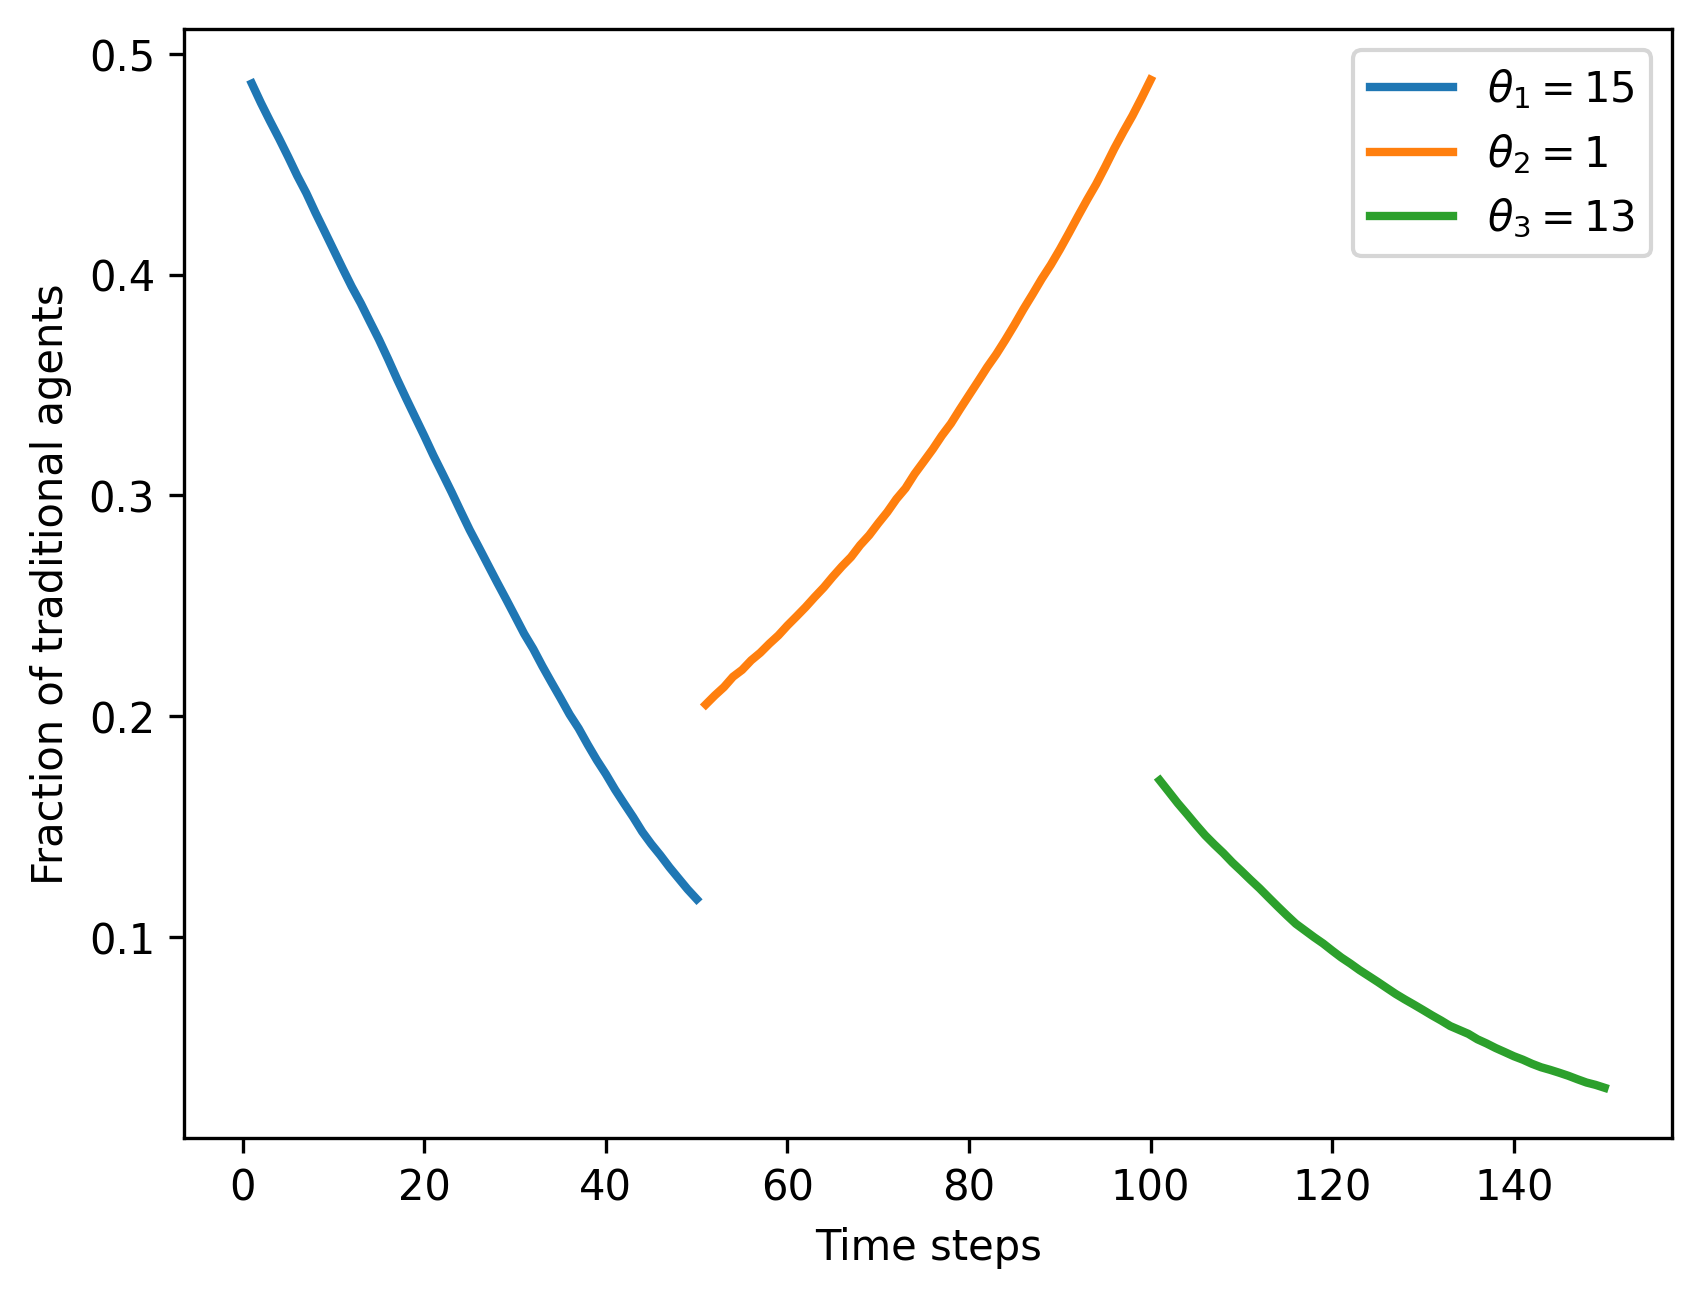
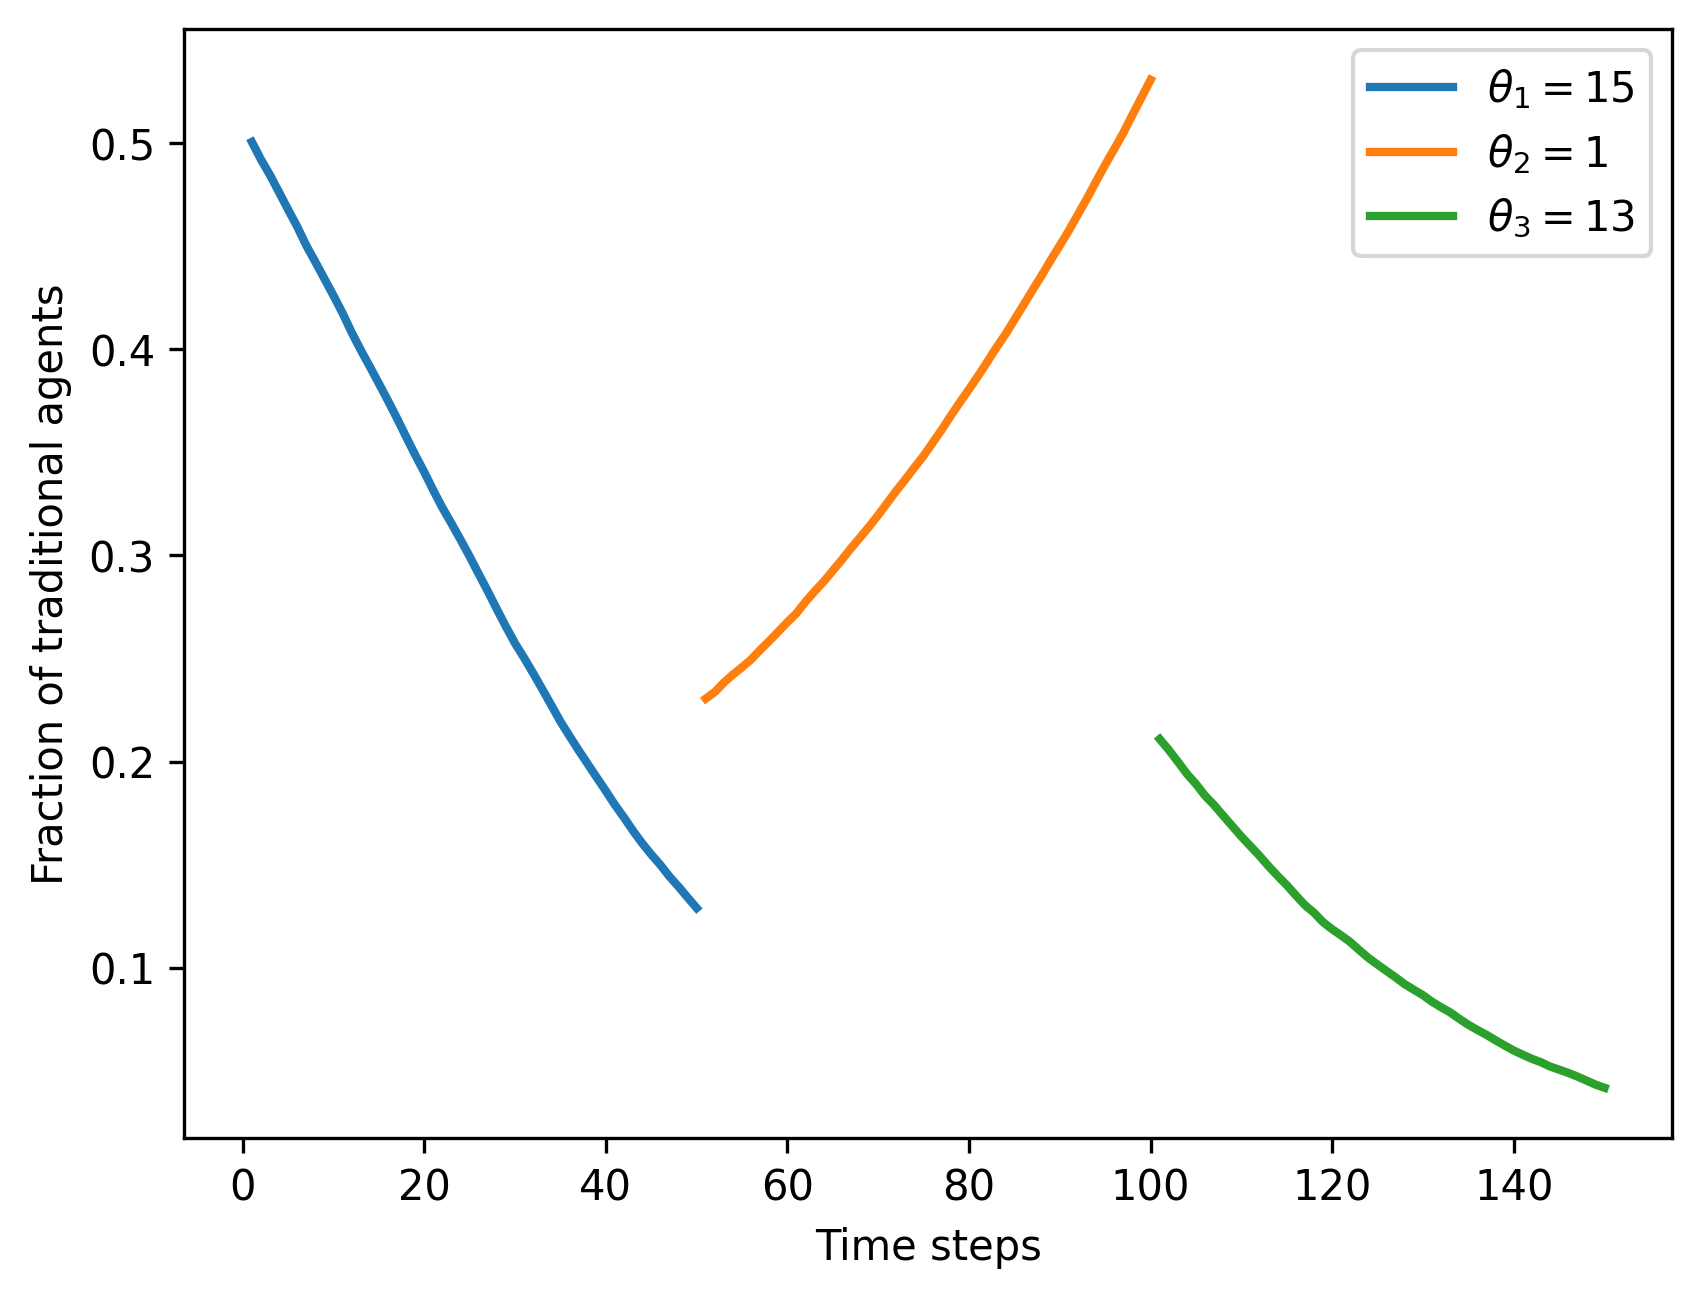
feat: fixed seed.

diff --git a/src/simulation.py b/src/simulation.py
@@ -1,4 +1,3 @@
-import random
 import os
 import logging
 import pickle
@@ -8,8 +7,10 @@ import numpy as np
 from .agent import Agent
 from .game import Game
 from .utils import get_fname
+
+
 class Simulation:
-    def __init__(self, N, f_cultural, theta_list, beta, max_steps, ensemble_size, update_fraction):
+    def __init__(self, N, f_cultural, theta_list, beta, max_steps, ensemble_size, update_fraction, seed=None):
         self.N = N
         self.f_cultural = f_cultural
         self.theta_list = theta_list
@@ -17,14 +18,16 @@ class Simulation:
         self.max_steps = max_steps
         self.ensemble_size = ensemble_size
         self.update_fraction = update_fraction
-        self.population = [Agent(random.random() < f_cultural) for _ in range(N)]
+        self.seed = seed
+        self.rng = np.random.default_rng(seed)
+        self.population = [Agent(self.rng.random() < f_cultural) for _ in range(N)]
         self.equilibria = {}  # theta: averaged fractions
         logging.info(f"Initialized simulation with N={N}, f_cultural={f_cultural}, theta_list={theta_list}, beta={beta}, max_steps={max_steps}, ensemble_size={ensemble_size}")
 
     def initialize_for_theta(self, theta):
         if not self.equilibria:
             for agent in self.population:
-                agent.strategy = random.choice(['T', 'I'])
+                agent.strategy = self.rng.choice(['T', 'I'])
             logging.info(f"Initialized strategies randomly for first theta {theta}")
         else:
             prev_thetas = list(self.equilibria.keys())
@@ -32,9 +35,9 @@ class Simulation:
             frac_dict = self.equilibria[closest_theta]
             for agent in self.population:
                 if agent.cultural_sway:
-                    agent.strategy = 'T' if random.random() < frac_dict['T'] else 'I'
+                    agent.strategy = 'T' if self.rng.random() < frac_dict['T'] else 'I'
                 else:
-                    agent.strategy = random.choice(['T', 'I'])
+                    agent.strategy = self.rng.choice(['T', 'I'])
             logging.info(f"Initialized strategies for theta {theta} based on closest previous theta {closest_theta} with T fraction {frac_dict['T']}")
 
     def average_fractions(self, frac_list):
@@ -62,7 +65,7 @@ class Simulation:
                 # Reset strategies to initial
                 for a, s in zip(self.population, initial_strategies):
                     a.strategy = s
-                game = Game(theta, self.beta, self.max_steps, self.population, self.update_fraction)
+                game = Game(theta, self.beta, self.max_steps, self.population, self.update_fraction, self.rng)
                 game.strategies = np.array([0 if a.strategy == 'T' else 1 for a in self.population])
                 fractions = game.run()
                 ensemble_fractions.append(fractions)
@@ -75,7 +78,7 @@ class Simulation:
             logging.info(f"Completed theta {theta}, averaged final fractions: {averaged_fractions}")
         logging.info(f"Simulation completed. Equilibria: {self.equilibria}")
         # Save data to pickle
-        fname = get_fname(N=self.N, f_cultural=self.f_cultural, theta_list=self.theta_list, beta=self.beta, max_steps=self.max_steps, ensemble_size=self.ensemble_size, update_fraction=self.update_fraction)
+        fname = get_fname(N=self.N, f_cultural=self.f_cultural, theta_list=self.theta_list, beta=self.beta, max_steps=self.max_steps, ensemble_size=self.ensemble_size, update_fraction=self.update_fraction, seed=self.seed)
         with open(f'{run_dir}/{fname}', 'wb') as f:
             pickle.dump(self.data, f)
         logging.info(f"Saved data to {run_dir}/{fname}")            

diff --git a/src/game.py b/src/game.py
@@ -1,4 +1,3 @@
-import random
 import math
 import logging
 import numpy as np
@@ -14,16 +13,17 @@ def payoff_matrix(theta, strat1, strat2):
     return p, p  # symmetric
 
 @jit(nopython=True)
-def update_strategies_jit(strategies, payoffs, beta, update_fraction):
+def update_strategies_jit(strategies, payoffs, beta, random_indices, partner_indices, thresholds):
     new_strategies = strategies.copy()
     n = len(strategies)
-    random_indices = np.random.randint(0, n, int(n * update_fraction))
-    for i in random_indices:
-        j = np.random.randint(0, n)
-        while j == i:
-            j = np.random.randint(0, n)
+    updates = len(random_indices)
+    for idx in range(updates):
+        i = random_indices[idx]
+        j = partner_indices[idx]
+        if j == i:
+            j = (j + 1) % n
         prob = 1 / (1 + np.exp(-beta * (payoffs[j] - payoffs[i])))
-        if np.random.random() < prob:
+        if thresholds[idx] < prob:
             new_strategies[i] = strategies[j]
     return new_strategies
 
@@ -37,12 +37,13 @@ def payoff_matrix_jit(theta, strat1, strat2):
     return p, p
 
 class Game:
-    def __init__(self, theta, beta, max_steps, population, update_fraction):
+    def __init__(self, theta, beta, max_steps, population, update_fraction, rng):
         self.theta = theta
         self.beta = beta
         self.max_steps = max_steps
         self.population = population
         self.update_fraction = update_fraction
+        self.rng = rng
         for agent in population:
             agent.payoff = 0.0
             agent.history = []
@@ -72,7 +73,21 @@ class Game:
             agent.payoff_history.append(agent.payoff)
 
     def update_strategies(self):
-        self.strategies = update_strategies_jit(self.strategies, self.payoffs, self.beta, self.update_fraction)
+        n = len(self.population)
+        updates = int(n * self.update_fraction)
+        if updates == 0:
+            return
+        random_indices = self.rng.integers(0, n, size=updates, dtype=np.int64)
+        partner_indices = self.rng.integers(0, n, size=updates, dtype=np.int64)
+        thresholds = self.rng.random(updates)
+        self.strategies = update_strategies_jit(
+            self.strategies,
+            self.payoffs,
+            self.beta,
+            random_indices,
+            partner_indices,
+            thresholds,
+        )
         
         # Update agent objects
         for i, agent in enumerate(self.population):

diff --git a/src/utils.py b/src/utils.py
@@ -11,11 +11,13 @@ def get_fname(**params):
     max_steps = params['max_steps']
     ensemble_size = params['ensemble_size']
     update_fraction = params['update_fraction']
+    seed = params.get('seed')
     # convert theta_list to string
     theta_list = [str(theta) for theta in theta_list]
     theta_list = '_'.join(theta_list)
     # use fp to format the string
 
-    fname = f"data_N_{N}_f_cultural_{f_cultural}_theta_list_{theta_list}_beta_{beta:.3f}_max_steps_{max_steps}_ensemble_size_{ensemble_size}_update_fraction_{update_fraction:.3f}.pkl"
+    seed_str = 'none' if seed is None else str(seed)
+    fname = f"data_N_{N}_f_cultural_{f_cultural}_theta_list_{theta_list}_beta_{beta:.3f}_max_steps_{max_steps}_ensemble_size_{ensemble_size}_update_fraction_{update_fraction:.3f}_seed_{seed_str}.pkl"
     return fname
     

diff --git a/main.py b/main.py
@@ -12,8 +12,9 @@ def main():
     max_steps = 50
     ensemble_size = 100
     update_fraction = 0.1
+    seed = 42
     
-    sim = Simulation(N, f_cultural, theta_list, beta, max_steps, ensemble_size, update_fraction)
+    sim = Simulation(N, f_cultural, theta_list, beta, max_steps, ensemble_size, update_fraction, seed=seed)
     equilibria = sim.run_simulation()
     logging.info("Main simulation completed")
 
